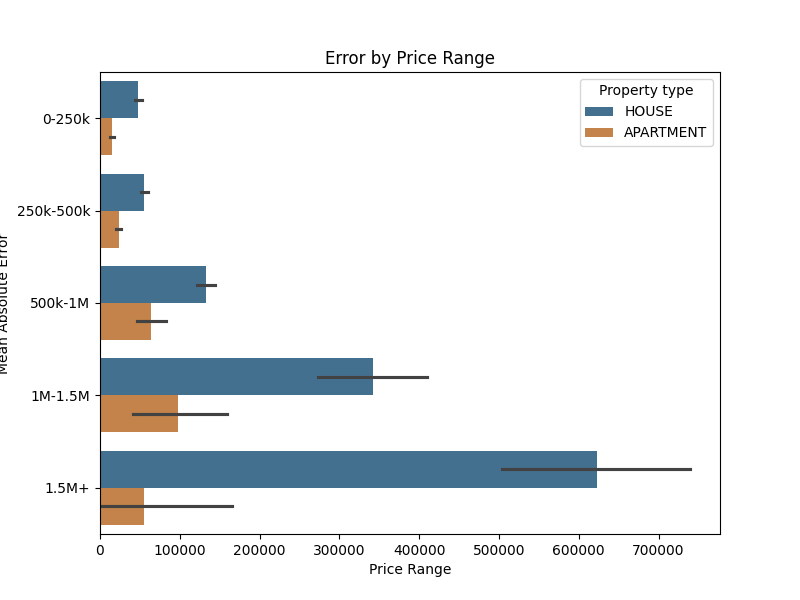
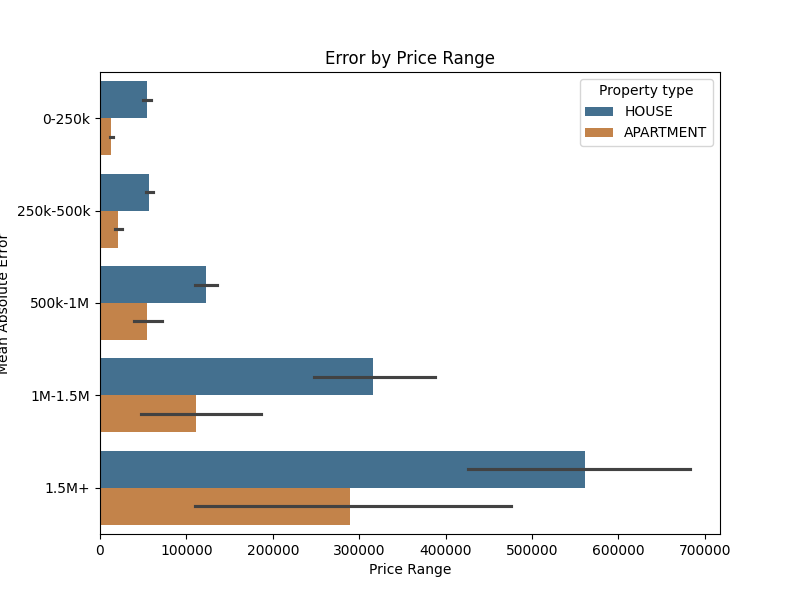
Model update

diff --git a/utils/RealEstateKNNReg.py b/utils/RealEstateKNNReg.py
@@ -7,9 +7,7 @@ from sklearn.inspection import permutation_importance
 from sklearn.utils import resample
 from sklearn.model_selection import train_test_split, RandomizedSearchCV, KFold, cross_val_score 
 from sklearn.metrics import mean_squared_error, r2_score, mean_absolute_error, mean_absolute_percentage_error
-from sklearn.decomposition import PCA
 from sklearn.preprocessing import StandardScaler
-from sklearn import metrics
 from scipy.stats import randint
 import shap
 
@@ -46,11 +44,10 @@ class RealEstateKNN:
         Split the dataset into training and test set.
         """
         self.X_train, self.X_test, self.y_train, self.y_test = train_test_split(
-            X, y, test_size=test_size
-        )
+            X, y, test_size=test_size, random_state=9)
         self.property_type = self.X_test["Property type"]
-        self.scale_features(self.X_train, self.X_test)
         self.feature_names = X.columns if isinstance(X, pd.DataFrame) else None
+        self.scale_features(self.X_train, self.X_test)        
 
     def scale_features(self, X_train, X_test):
         """
@@ -82,7 +79,6 @@ class RealEstateKNN:
         y_pred_train = self.predict(self.X_train)
         self.calculate_metrics(self.y_train, y_pred_train, 'Training set')
         self.calculate_metrics(self.y_test, self.y_pred_test, 'Test set')
-        print(self.metrics)
 
     def calculate_smape(self, actual, pred):
         numerator = np.abs(actual - pred)
@@ -99,6 +95,7 @@ class RealEstateKNN:
     def generate_graphs(self):
         self.plot_ideal_fit()
         self.plot_error_rate()
+        #self.plot_feature_importance()
 
     def plot_ideal_fit(self):
         """
@@ -140,3 +137,26 @@ class RealEstateKNN:
         plt.title('Error by Price Range')
         plt.savefig('./figures/Error_rates.png')
         plt.clf()
+
+    def plot_feature_importance(self):
+        results = permutation_importance(self.model, self.X_train, self.y_train, scoring='neg_mean_squared_error')
+        importances = results.importances_mean  # Mean importance across shuffles
+        std = results.importances_std  # Standard deviation
+        feature_importance = pd.DataFrame({
+            'Feature': self.feature_names,
+            'Importance': importances,
+            'StdDev': std
+        })
+
+        #Sort by importance
+        feature_importance = feature_importance.sort_values(by='Importance', ascending=False)
+        plt.figure(figsize=(10, 6))
+        sns.barplot(x='Importance', y='Feature', data=feature_importance, errorbar=None)
+        plt.errorbar(feature_importance['Importance'], feature_importance['Feature'], xerr=feature_importance['StdDev'], fmt='o', color='red', label='Std Dev')
+        plt.title('Feature Importance from Permutation Importance')
+        plt.xlabel('Mean Importance')
+        plt.ylabel('Features')
+        plt.legend()
+        plt.tight_layout()
+        plt.savefig('./figures/Feature_importance.png')
+        plt.clf()       

diff --git a/price_prediction.py b/price_prediction.py
@@ -1,15 +1,18 @@
 import pandas as pd
 from sklearn.utils import resample
 from utils.RealEstateKNNReg import RealEstateKNN
+from time import perf_counter
+start_time = perf_counter()
 
 def balance_dataset(dataset_majority, dataset_minority, upsample_count):
     """
     Function to balance teh dataset for the property type
     """
     upsampled_set = resample(dataset_minority, 
-                        replace=True,     # sample with replacement
-                        n_samples=upsample_count   # to match majority class
-                        ) # reproducible results
+                        replace=True,     
+                        n_samples=upsample_count,
+                        random_state=123 
+                        ) 
     combined_set = pd.concat([dataset_majority,upsampled_set], ignore_index=True)
     return combined_set
 
@@ -25,7 +28,7 @@ balanced_set = balance_dataset(immo_house, immo_apt, house_count)
 # Create an object of the RealEstateKNN class based on the params defined
 params = {"dataset":balanced_set, 
             "target":"Price",
-            "n_neighbors":8,
+            "n_neighbors":10,
             "metric":"manhattan",
             "weights":"distance",
             "algorithm":"kd_tree"}
@@ -34,7 +37,14 @@ knn_model = RealEstateKNN(**params) #dataset=balanced_set, target="Price", n_nei
 
 # Call the class functions to perform the steps required to train and test the KNN regressor model
 knn_model.set_feature_target()
+
+# Train and evaluate the model 
+start_model_time = perf_counter()
 knn_model.train_model()
 knn_model.evaluate()
+print(f"\nTime taken to train and evaluate model: {round(perf_counter()-start_model_time,3)} seconds.") 
+
+# Print the metrics and generate graphs
 knn_model.print_metrics()
 knn_model.generate_graphs()
+print(f"\nTime taken to from start to finish: {round(perf_counter()-start_time,3)} seconds.") 
